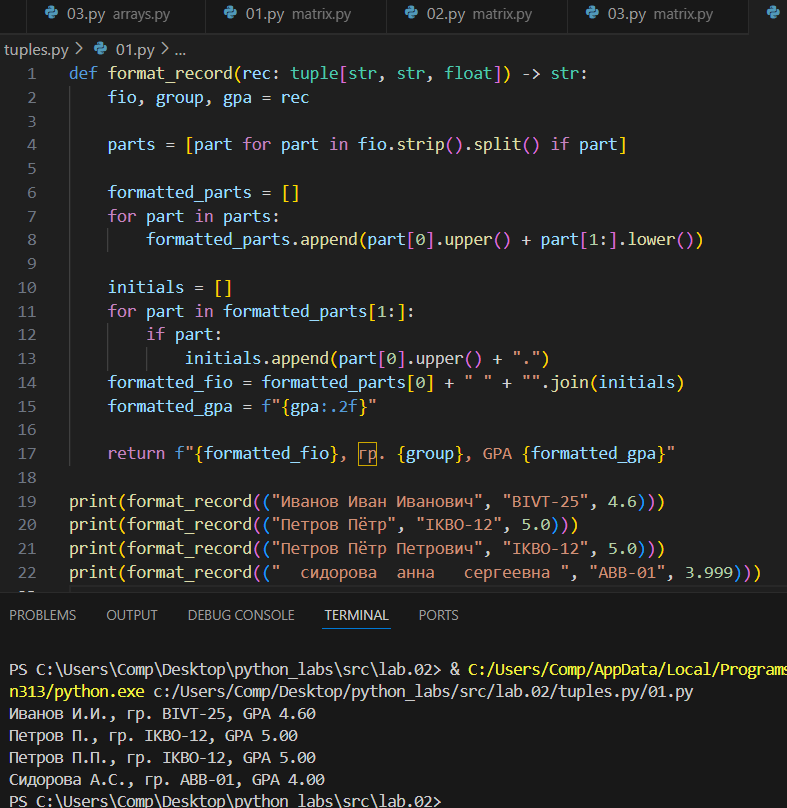
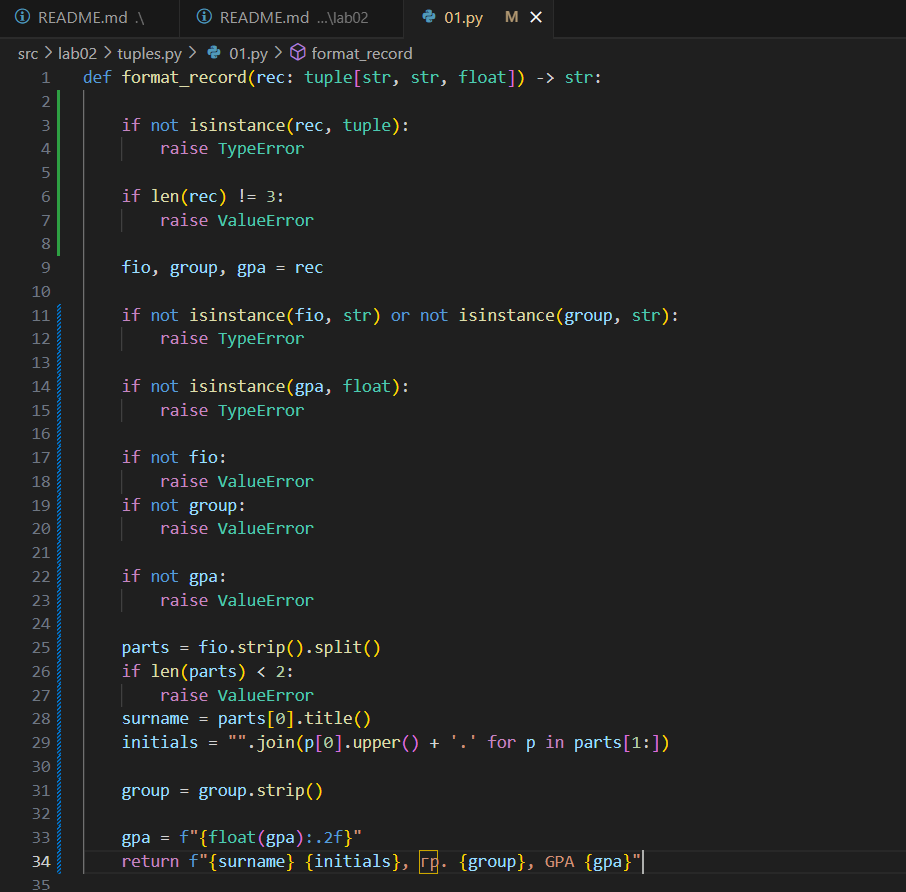
bffb

diff --git a/src/lab02/tuples.py/01.py b/src/lab02/tuples.py/01.py
@@ -1,22 +1,39 @@
 def format_record(rec: tuple[str, str, float]) -> str:
+
+    if not isinstance(rec, tuple):                    
+        raise TypeError
+    
+    if len(rec) != 3:
+        raise ValueError
+    
     fio, group, gpa = rec
 
-    parts = [part for part in fio.strip().split() if part]
-
-    formatted_parts = []
-    for part in parts:
-        formatted_parts.append(part[0].upper() + part[1:].lower())
-
-    initials = []
-    for part in formatted_parts[1:]:
-        if part:
-            initials.append(part[0].upper() + ".")
-    formatted_fio = formatted_parts[0] + " " + "".join(initials)
-    formatted_gpa = f"{gpa:.2f}"
+    if not isinstance(fio, str) or not isinstance(group, str):  
+        raise TypeError
     
-    return f"{formatted_fio}, гр. {group}, GPA {formatted_gpa}"
+    if not isinstance(gpa, float):
+        raise TypeError
+
+    if not fio:                                            
+        raise ValueError
+    if not group:
+        raise ValueError
+    
+    if not gpa:
+        raise ValueError
+    
+    parts = fio.strip().split()                      
+    if len(parts) < 2:
+        raise ValueError
+    surname = parts[0].title()                                     
+    initials = "".join(p[0].upper() + '.' for p in parts[1:])       
+
+    group = group.strip()
+
+    gpa = f"{float(gpa):.2f}"
+    return f"{surname} {initials}, гр. {group}, GPA {gpa}"
 
 print(format_record(("Иванов Иван Иванович", "BIVT-25", 4.6)))
 print(format_record(("Петров Пётр", "IKBO-12", 5.0)))
 print(format_record(("Петров Пётр Петрович", "IKBO-12", 5.0)))
-print(format_record(("  сидорова  анна   сергеевна ", "ABB-01", 3.999)))
+print(format_record(("  сидорова  анна   сергеевна ", "ABB-01")))
